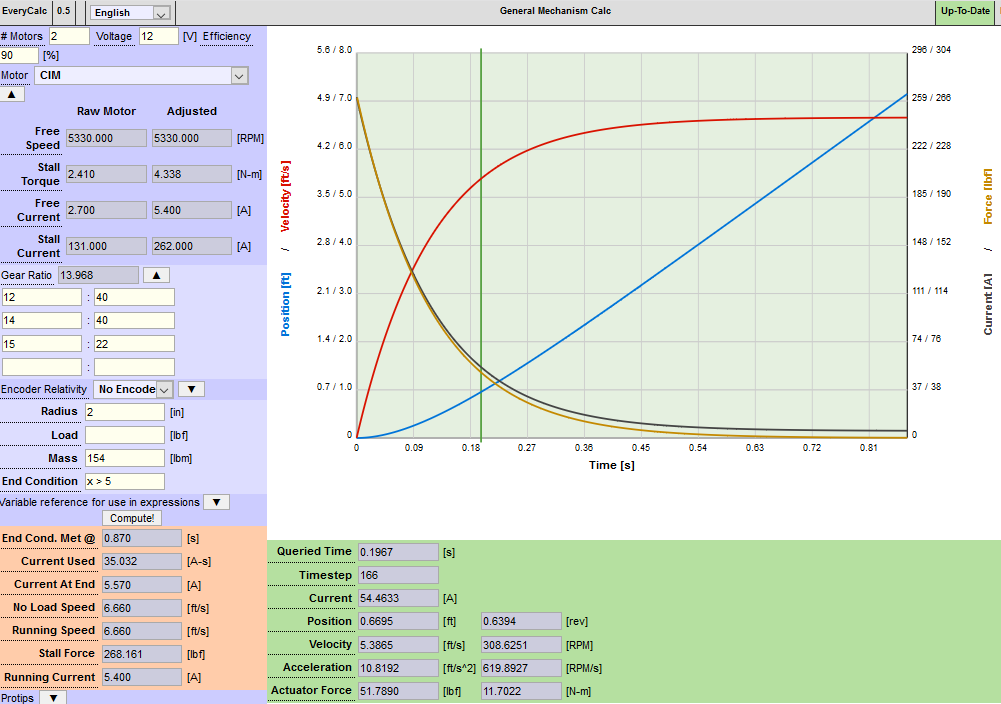
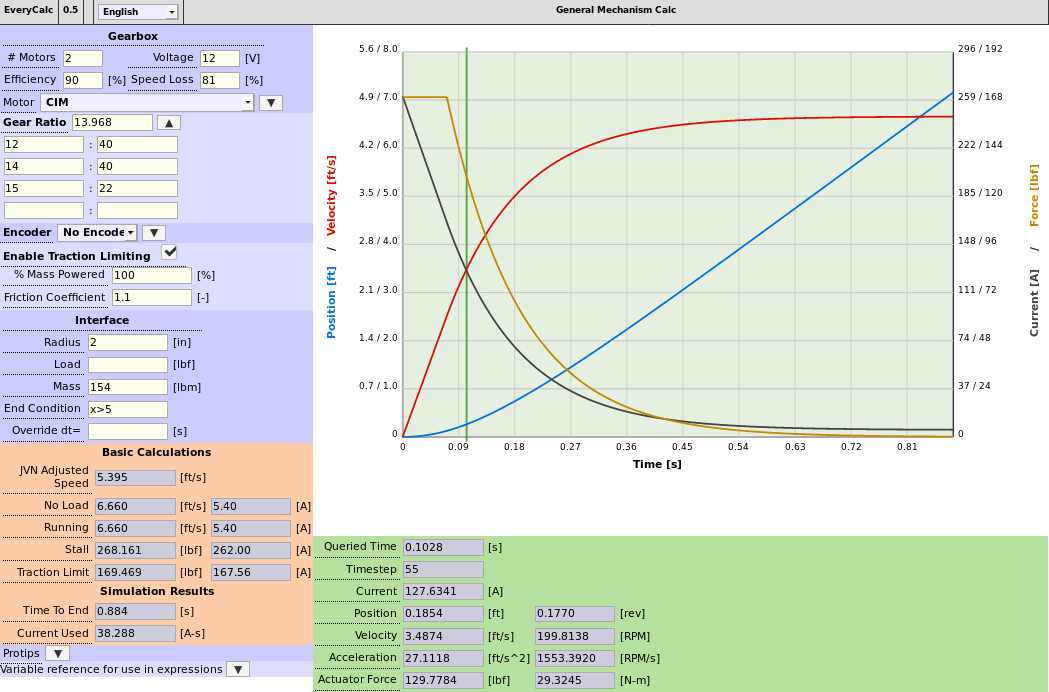
further validation

diff --git a/trajectory.html b/trajectory.html
@@ -131,8 +131,8 @@
 			Fl = mu_l * vbar*vbar;
 			Fm = mu_m * vbar*omega;
 
-			vy += (-g - Fd*Ty + Fl*Ny + Fm*Ny)*dt;
-			vx += (   - Fd*Tx + Fl*Nx + Fm*Nx)*dt;
+			vy += (-g*m - Fd*Ty + Fl*Ny + Fm*Ny)/m*dt;
+			vx += (     - Fd*Tx + Fl*Nx + Fm*Nx)/m*dt;
 			x += vx*dt;
 			y += vy*dt;
 			t += dt;
@@ -465,7 +465,7 @@
 
 		shot_area.setAttribute('fill', missed ? '#6a1a10': '#3a6a30')
 
-		if (x_obstacle > 0) x_obstacle -= target_d;
+		if (x_obstacle > 0) x_obstacle -= target_x;
 
 		target_low .setAttribute("points","");
 		target_high.setAttribute("points","");

diff --git a/simplemech.html b/simplemech.html
@@ -81,8 +81,8 @@
 		let G = getV("G");
 
 		let mu = +Infinity;
-		let N = 0;
-		if (document.getElementById("enable_friction")) {
+		let N = +Infinity;
+		if (document.getElementById("enable_friction").checked) {
 			mu = getV("friction_mu", 0);
 			N  = m*g*getV("friction_pctloaded",100)/100;
 		}
